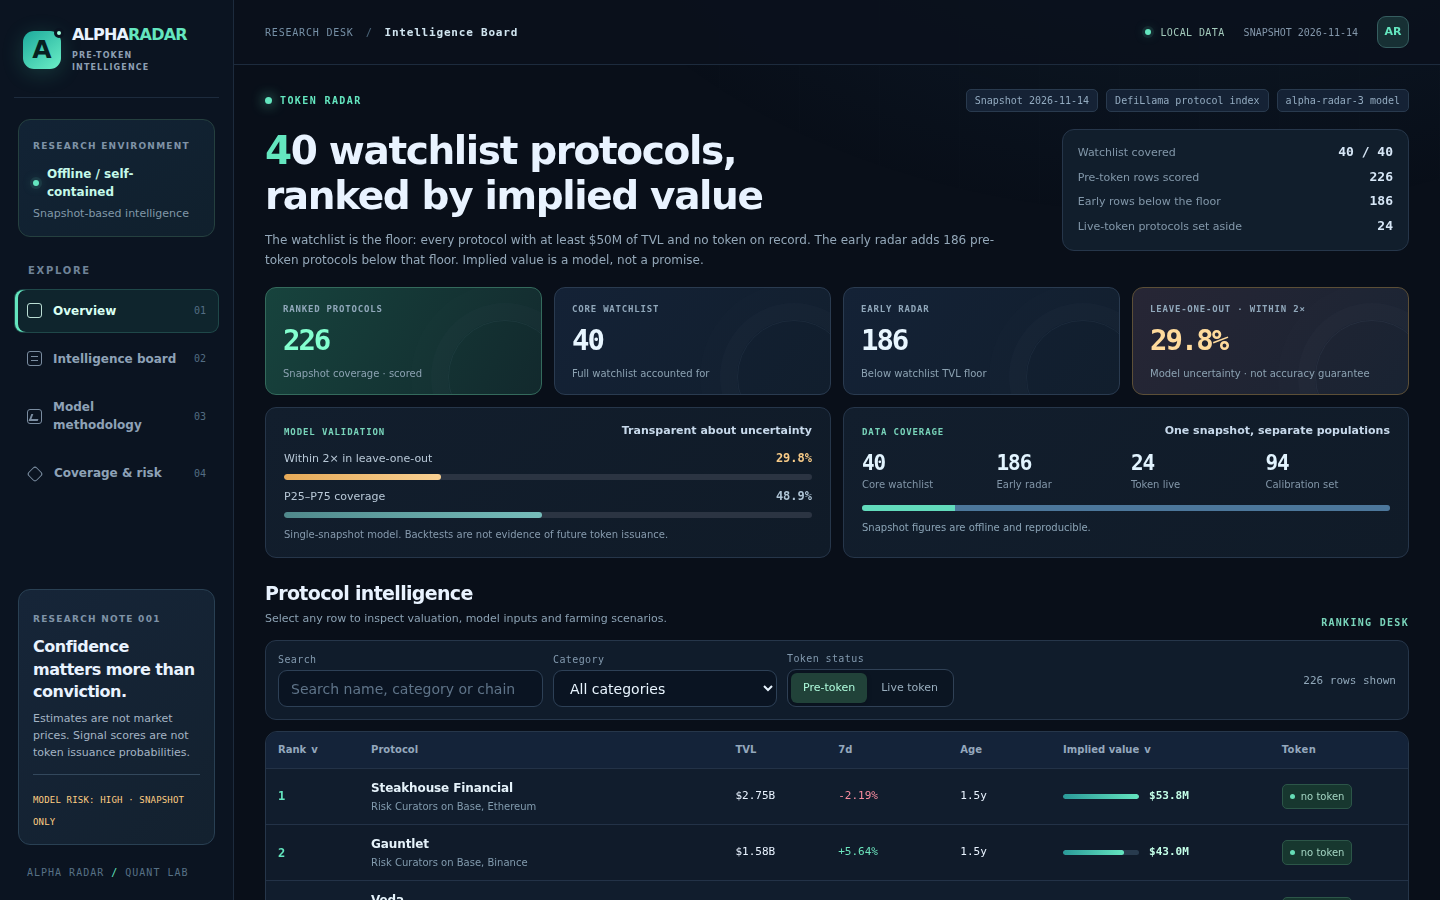
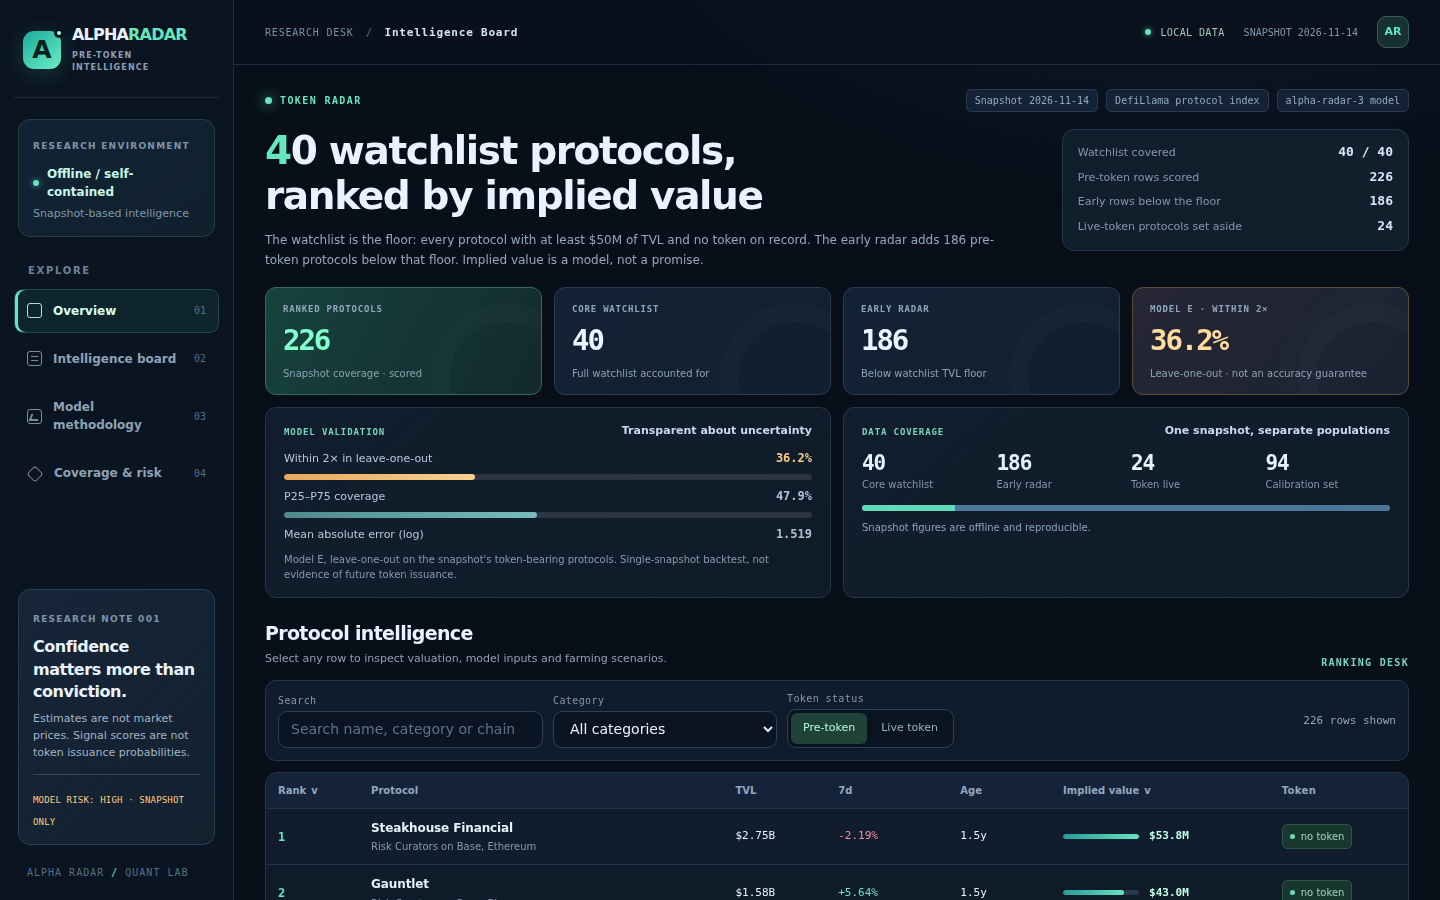
fix: show Model E leave-one-out metrics on dashboard
The validation panel displayed the baseline ratio model's LOO numbers
(29.8% within 2x, 48.9% P25-P75) instead of Model E's (36.2%, 47.9%).
calibrate.ts now computes Model E leave-one-out refit metrics
(e_loo_within_2x_pct, e_loo_p25_p75_cov_pct, e_loo_mae_log); insights.js
and the protocol detail dialog read those. Valuation and ranking unchanged.
Screenshots regenerated from Model E output.

diff --git a/lib/calibrate.ts b/lib/calibrate.ts
@@ -16,13 +16,18 @@ export interface Calibration {
   residual_p75: number; // P75 of the same residuals, log space
   low_factor: number; // exp(residual_p25)
   high_factor: number; // exp(residual_p75)
-  // Out-of-sample baseline ratio evaluation, kept separate from Model E's fit.
+  // Out-of-sample evaluation of the baseline ratio model, kept separate from Model E.
   q25: number;
   median: number;
   q75: number;
-  loo_coverage_pct: number; // share of protocols whose true ratio fell inside the LOO P25-P75 band
-  loo_within_2x_pct: number; // share whose true ratio was within 2x of the LOO median
+  loo_coverage_pct: number; // baseline ratio: true ratio inside the LOO P25-P75 band
+  loo_within_2x_pct: number; // baseline ratio: true ratio within 2x of the LOO median
   loo_median_abs_log_err: number;
+  // Out-of-sample evaluation of Model E itself (leave-one-out refit of the log-log fit).
+  e_loo_mae_log: number;
+  e_loo_med_ae_log: number;
+  e_loo_within_2x_pct: number;
+  e_loo_p25_p75_cov_pct: number;
 }
 
 const EXCLUDED = new Set(['CEX', 'Bridge', 'Canonical Bridge', 'Liquid Staking', 'Liquid Restaking', 'Restaked BTC']);
@@ -75,6 +80,10 @@ export function calibrate(protocols: SnapshotProtocol[], intercept: number = E_I
       loo_coverage_pct: 0,
       loo_within_2x_pct: 0,
       loo_median_abs_log_err: 0,
+      e_loo_mae_log: 0,
+      e_loo_med_ae_log: 0,
+      e_loo_within_2x_pct: 0,
+      e_loo_p25_p75_cov_pct: 0,
     };
   }
 
@@ -95,6 +104,35 @@ export function calibrate(protocols: SnapshotProtocol[], intercept: number = E_I
   }
   errs.sort((a, b) => a - b);
   const pct = (x: number) => Math.round((x / ratios.length) * 1000) / 10;
+
+  // Model E evaluated out of sample: leave-one-out refit of the log-log fit on the same protocols,
+  // matching the audit's Model E procedure exactly (coefficients refit per fold).
+  const pts = usable.map((p) => ({ y: Math.log(p.mcap_usd!), x: Math.log(p.tvl_usd) }));
+  const eErrs: number[] = [];
+  let eCover = 0;
+  let eWithin = 0;
+  for (let i = 0; i < pts.length; i++) {
+    const tr = pts.filter((_, j) => j !== i);
+    const n = tr.length;
+    const sx = tr.reduce((s, q) => s + q.x, 0);
+    const sy = tr.reduce((s, q) => s + q.y, 0);
+    const sxx = tr.reduce((s, q) => s + q.x * q.x, 0);
+    const sxy = tr.reduce((s, q) => s + q.x * q.y, 0);
+    const den = n * sxx - sx * sx;
+    const b = den === 0 ? 0 : (n * sxy - sx * sy) / den;
+    const a = (sy - b * sx) / n;
+    const res = tr.map((q) => q.y - (a + b * q.x)).sort((p, q) => p - q);
+    const lo = quantile(res, 0.25);
+    const hi = quantile(res, 0.75);
+    const r = pts[i]!.y - (a + b * pts[i]!.x);
+    const e = Math.abs(r);
+    eErrs.push(e);
+    if (r >= lo && r <= hi) eCover++;
+    if (e < Math.log(2)) eWithin++;
+  }
+  eErrs.sort((a, b) => a - b);
+  const ePct = (x: number) => Math.round((x / pts.length) * 1000) / 10;
+
   return {
     n: sorted.length,
     intercept,
@@ -109,5 +147,9 @@ export function calibrate(protocols: SnapshotProtocol[], intercept: number = E_I
     loo_coverage_pct: pct(cover),
     loo_within_2x_pct: pct(within),
     loo_median_abs_log_err: Math.round(quantile(errs, 0.5) * 1000) / 1000,
+    e_loo_mae_log: Math.round((eErrs.reduce((s, e) => s + e, 0) / eErrs.length) * 1000) / 1000,
+    e_loo_med_ae_log: Math.round(quantile(eErrs, 0.5) * 1000) / 1000,
+    e_loo_within_2x_pct: ePct(eWithin),
+    e_loo_p25_p75_cov_pct: ePct(eCover),
   };
 }

diff --git a/dashboard/insights.js b/dashboard/insights.js
@@ -40,20 +40,23 @@
       metric('RANKED PROTOCOLS', number(data.board_size), sample ? 'Sample view · ' + data.rows.length + ' loaded' : 'Snapshot coverage · scored', 'metric-primary'),
       metric('CORE WATCHLIST', number(data.watchlist_size), 'Full watchlist accounted for', ''),
       metric('EARLY RADAR', number(data.early_size), 'Below watchlist TVL floor', ''),
-      metric('LEAVE-ONE-OUT · WITHIN 2×', percent(data.calibration && data.calibration.loo_within_2x_pct), 'Model uncertainty · not accuracy guarantee', 'metric-caution')
+      metric('MODEL E · WITHIN 2×', percent(data.calibration && data.calibration.e_loo_within_2x_pct), 'Leave-one-out · not an accuracy guarantee', 'metric-caution')
     );
     if (title) title.insertAdjacentElement('afterend', kpis);
 
     const row = el('div', 'insight-grid'); row.id = 'radar-coverage';
     const confidence = mkPanel('model-evidence', 'MODEL VALIDATION', 'Transparent about uncertainty');
     const one = el('div','validation-row');
-    one.append(el('span','','Within 2× in leave-one-out'),el('strong','',percent(data.calibration && data.calibration.loo_within_2x_pct)));
-    const track = el('div','validation-track'); const fill = el('span',''); fill.style.width = safePct(data.calibration && data.calibration.loo_within_2x_pct) + '%'; track.append(fill);
+    one.append(el('span','','Within 2× in leave-one-out'),el('strong','',percent(data.calibration && data.calibration.e_loo_within_2x_pct)));
+    const track = el('div','validation-track'); const fill = el('span',''); fill.style.width = safePct(data.calibration && data.calibration.e_loo_within_2x_pct) + '%'; track.append(fill);
     const two = el('div','validation-row small');
-    two.append(el('span','','P25–P75 coverage'),el('strong','',percent(data.calibration && data.calibration.loo_coverage_pct)));
-    const track2 = el('div','validation-track faint'); const fill2 = el('span',''); fill2.style.width = safePct(data.calibration && data.calibration.loo_coverage_pct) + '%'; track2.append(fill2);
+    two.append(el('span','','P25–P75 coverage'),el('strong','',percent(data.calibration && data.calibration.e_loo_p25_p75_cov_pct)));
+    const track2 = el('div','validation-track faint'); const fill2 = el('span',''); fill2.style.width = safePct(data.calibration && data.calibration.e_loo_p25_p75_cov_pct) + '%'; track2.append(fill2);
     confidence.append(one,track,two,track2);
-    const note = el('p','validation-note', 'Single-snapshot model. Backtests are not evidence of future token issuance.'); confidence.append(note);
+    const mae = el('div','validation-row small');
+    mae.append(el('span','','Mean absolute error (log)'),el('strong','', (data.calibration && Number.isFinite(Number(data.calibration.e_loo_mae_log))) ? Number(data.calibration.e_loo_mae_log).toFixed(3) : 'N/A'));
+    confidence.append(mae);
+    const note = el('p','validation-note', 'Model E, leave-one-out on the snapshot\'s token-bearing protocols. Single-snapshot backtest, not evidence of future token issuance.'); confidence.append(note);
 
     const coverage = mkPanel('pipeline-overview', 'DATA COVERAGE', 'One snapshot, separate populations');
     const overview = el('div','coverage-stats');

diff --git a/dashboard/app.js b/dashboard/app.js
@@ -363,7 +363,7 @@
         el('div', null, el('span', { text: 'Signal score (0-100)' }), el('b', { class: 'num', text: String(row.signal_score) }))
       ),
       el('p', { class: 'sub', text: 'Signals: ' + row.signal_note + '. The score is a weighted count of record features, not a probability. It has no outcome data behind it and is not calibrated.' }),
-      el('p', { class: 'sub', text: 'Low and high scale the model value by exp(P25) and exp(P75) of the log residuals from the ' + DATA.calibration.n + ' token-bearing protocols in this snapshot (Model E band). The leave-one-out ratio evaluation is kept separate: it covered the true ratio ' + DATA.calibration.loo_coverage_pct + '% of the time inside P25 to P75, and within 2x of the median ' + DATA.calibration.loo_within_2x_pct + '% of the time.' })
+      el('p', { class: 'sub', text: 'Low and high scale the model value by exp(P25) and exp(P75) of the log residuals from the ' + DATA.calibration.n + ' token-bearing protocols in this snapshot (Model E band). Model E leave-one-out refit: within 2× of the true value ' + DATA.calibration.e_loo_within_2x_pct + '% of the time, inside the P25–P75 band ' + DATA.calibration.e_loo_p25_p75_cov_pct + '% of the time, mean absolute log error ' + DATA.calibration.e_loo_mae_log.toFixed(3) + '.' })
     ));
     dialog.appendChild(farmSimulator(row));
     dialog.appendChild(el('section', { class: 'detail-section' },
